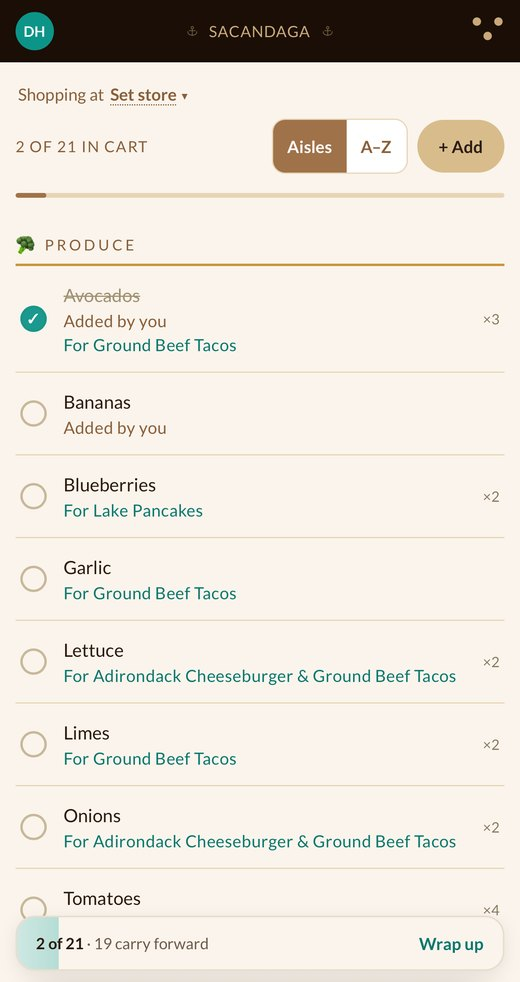
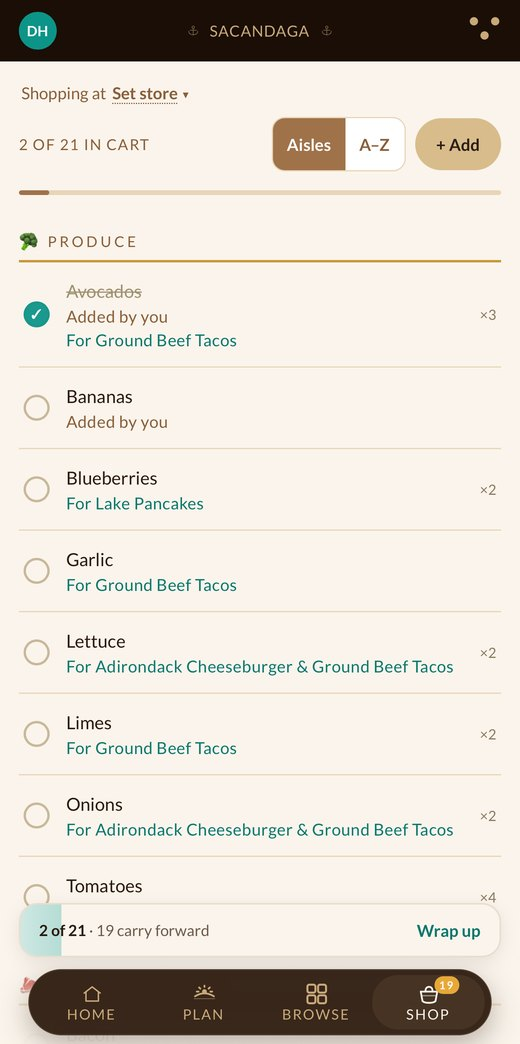
Keep the Helm nav in all six screenshots
The first crops matched the July screenshots' 520x982 ratio, which cut off
the bottom of each screen where the Helm sits. Recropped full-width to
520x1044 and updated the img width/height attributes to match.

Claude-Session: https://claude.ai/code/session_01UfpcBv5nm4Ri3fWjpnXnYv

diff --git a/index.html b/index.html
@@ -105,7 +105,7 @@
     <div class="shots">
       <div class="reveal-up">
         <div class="shot-slot">
-          <div class="shot-screen"><img src="assets/img/screen-meals.jpg" width="520" height="982" loading="lazy" alt="The Sacandaga meal library: Lakeside BLT, Ground Beef Tacos, Adirondack Cheeseburger and Lake Pancakes, each with a Plan button"></div>
+          <div class="shot-screen"><img src="assets/img/screen-meals.jpg" width="520" height="1044" loading="lazy" alt="The Sacandaga meal library: Lakeside BLT, Ground Beef Tacos, Adirondack Cheeseburger and Lake Pancakes, each with a Plan button"></div>
         </div>
         <div class="shot-cap">
           <h3>What sounds good?</h3>
@@ -114,7 +114,7 @@
       </div>
       <div class="reveal-up">
         <div class="shot-slot">
-          <div class="shot-screen"><img src="assets/img/screen-galley.jpg" width="520" height="982" loading="lazy" alt="A recipe from the Galley for Adirondack Cheeseburger, with ingredient quantities, I have this links, and numbered steps"></div>
+          <div class="shot-screen"><img src="assets/img/screen-galley.jpg" width="520" height="1044" loading="lazy" alt="A recipe from the Galley for Adirondack Cheeseburger, with ingredient quantities, I have this links, and numbered steps"></div>
         </div>
         <div class="shot-cap">
           <h3>Ask the Galley</h3>
@@ -123,7 +123,7 @@
       </div>
       <div class="reveal-up">
         <div class="shot-slot">
-          <div class="shot-screen"><img src="assets/img/screen-week.jpg" width="520" height="982" loading="lazy" alt="This Week: four nights in order, one meal cooked, a leftovers night held, and a banner reading Everything's in. Go cook."></div>
+          <div class="shot-screen"><img src="assets/img/screen-week.jpg" width="520" height="1044" loading="lazy" alt="This Week: four nights in order, one meal cooked, a leftovers night held, and a banner reading Everything's in. Go cook."></div>
         </div>
         <div class="shot-cap">
           <h3>The week, in the order you'll eat it</h3>
@@ -138,7 +138,7 @@
     <div class="shots">
       <div class="reveal-up">
         <div class="shot-slot">
-          <div class="shot-screen"><img src="assets/img/screen-shop-meals.jpg" width="520" height="982" loading="lazy" alt="Mid-shop at Hannaford Rutland, 14 of 22 in the cart, with each item showing which meal it's for"></div>
+          <div class="shot-screen"><img src="assets/img/screen-shop-meals.jpg" width="520" height="1044" loading="lazy" alt="Mid-shop at Hannaford Rutland, 14 of 22 in the cart, with each item showing which meal it's for"></div>
         </div>
         <div class="shot-cap">
           <h3>Get in, get out, get it right</h3>
@@ -147,7 +147,7 @@
       </div>
       <div class="reveal-up">
         <div class="shot-slot">
-          <div class="shot-screen"><img src="assets/img/screen-browse.jpg" width="520" height="982" loading="lazy" alt="Browsing Produce in the catalog: Apples and Bananas on the list with quantity steppers, other items with an Add button, and one row swiped to reveal Edit, Staple and Hide"></div>
+          <div class="shot-screen"><img src="assets/img/screen-browse.jpg" width="520" height="1044" loading="lazy" alt="Browsing Produce in the catalog: Apples and Bananas on the list with quantity steppers, other items with an Add button, and one row swiped to reveal Edit, Staple and Hide"></div>
         </div>
         <div class="shot-cap">
           <h3>The stuff you buy every week</h3>
@@ -156,7 +156,7 @@
       </div>
       <div class="reveal-up">
         <div class="shot-slot">
-          <div class="shot-screen"><img src="assets/img/screen-crew.jpg" width="520" height="982" loading="lazy" alt="Your places: Madbury, Sacandaga, BVI and Golf Weekend, with the golf weekend's members Daniel, Aidan and Jacob and an Invite aboard button"></div>
+          <div class="shot-screen"><img src="assets/img/screen-crew.jpg" width="520" height="1044" loading="lazy" alt="Your places: Madbury, Sacandaga, BVI and Golf Weekend, with the golf weekend's members Daniel, Aidan and Jacob and an Invite aboard button"></div>
         </div>
         <div class="shot-cap">
           <h3>Hand it to your crew</h3>
